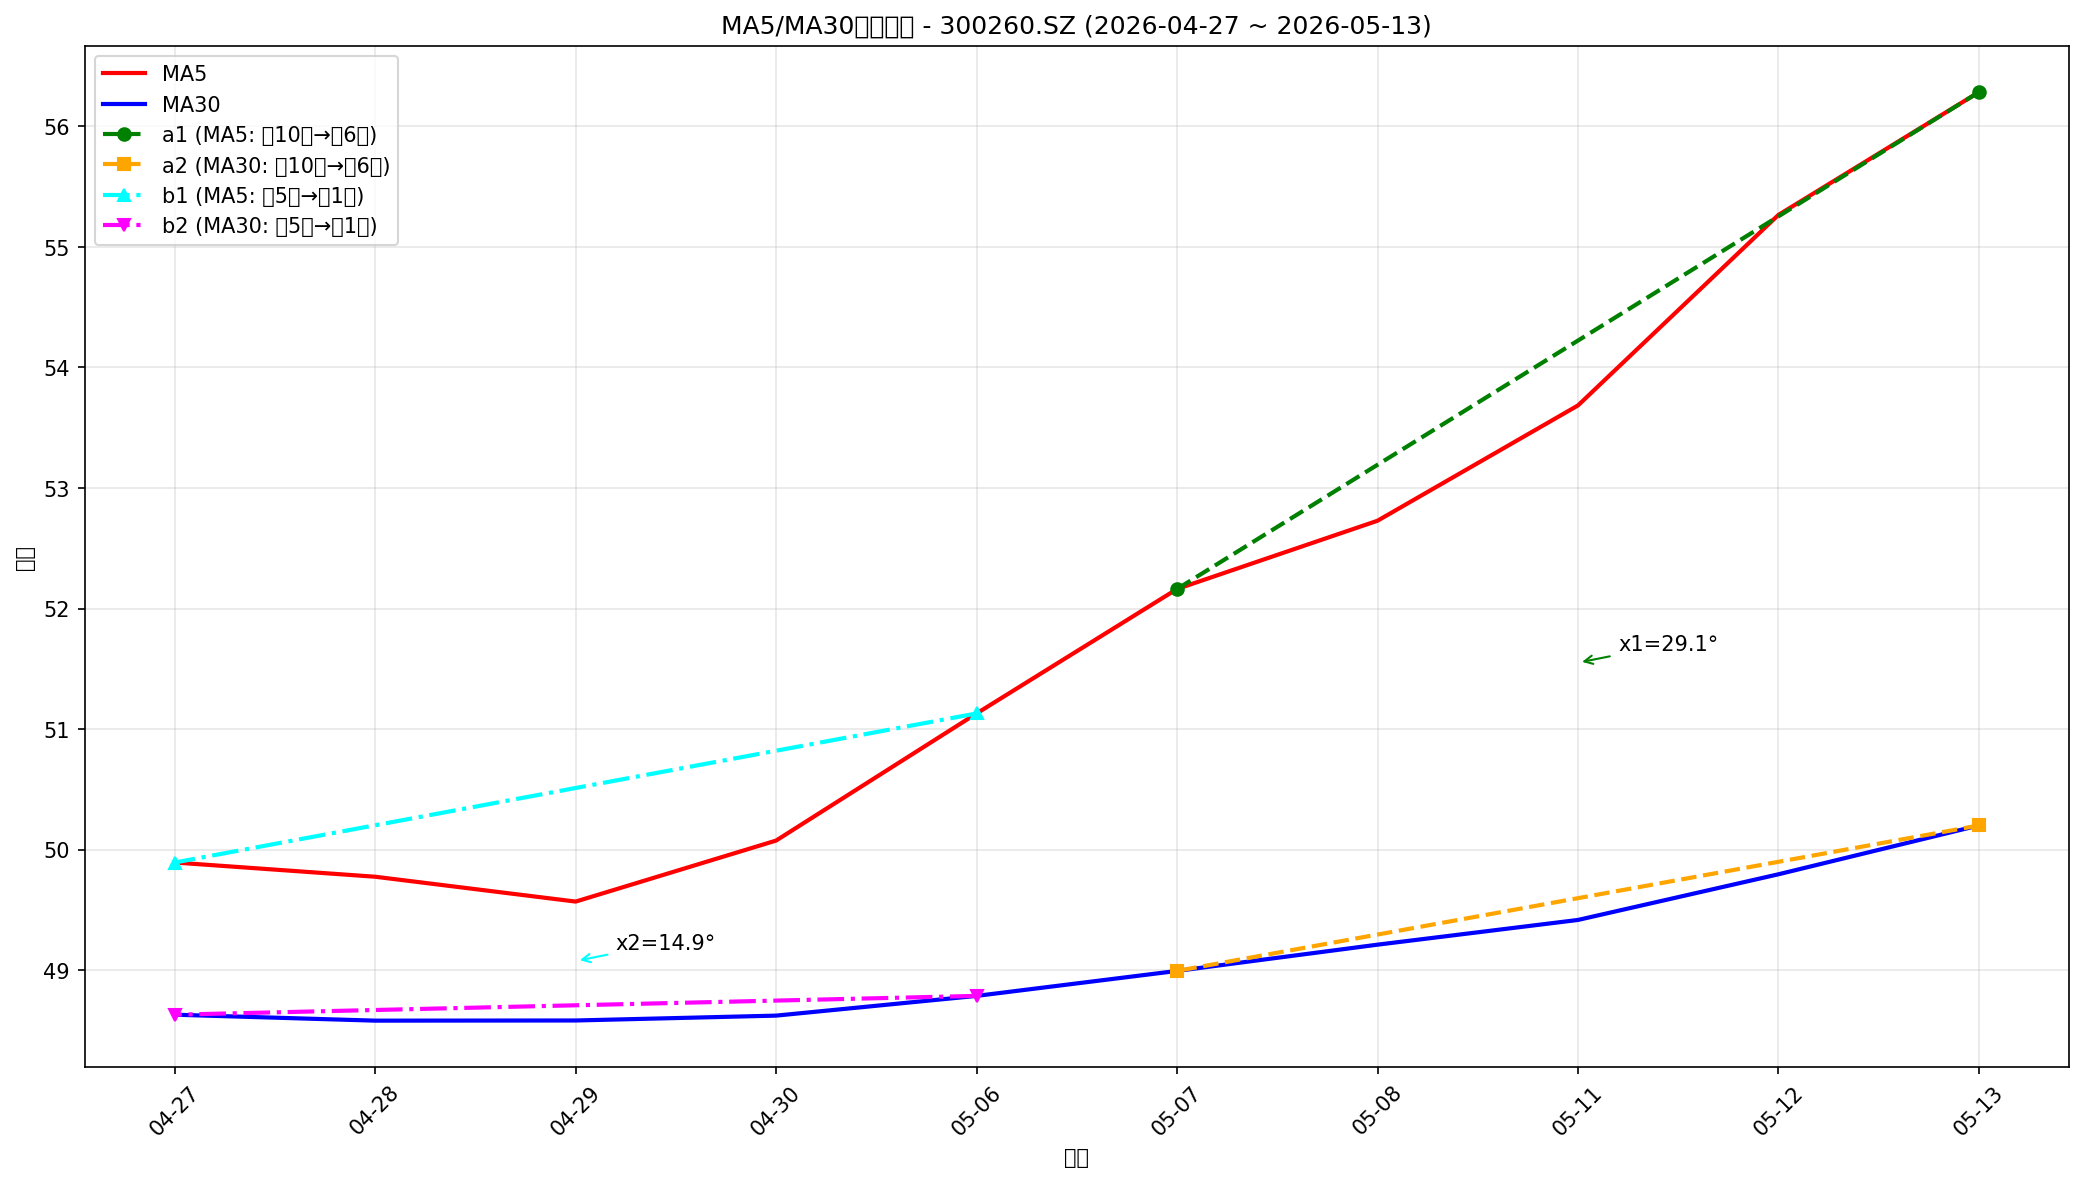
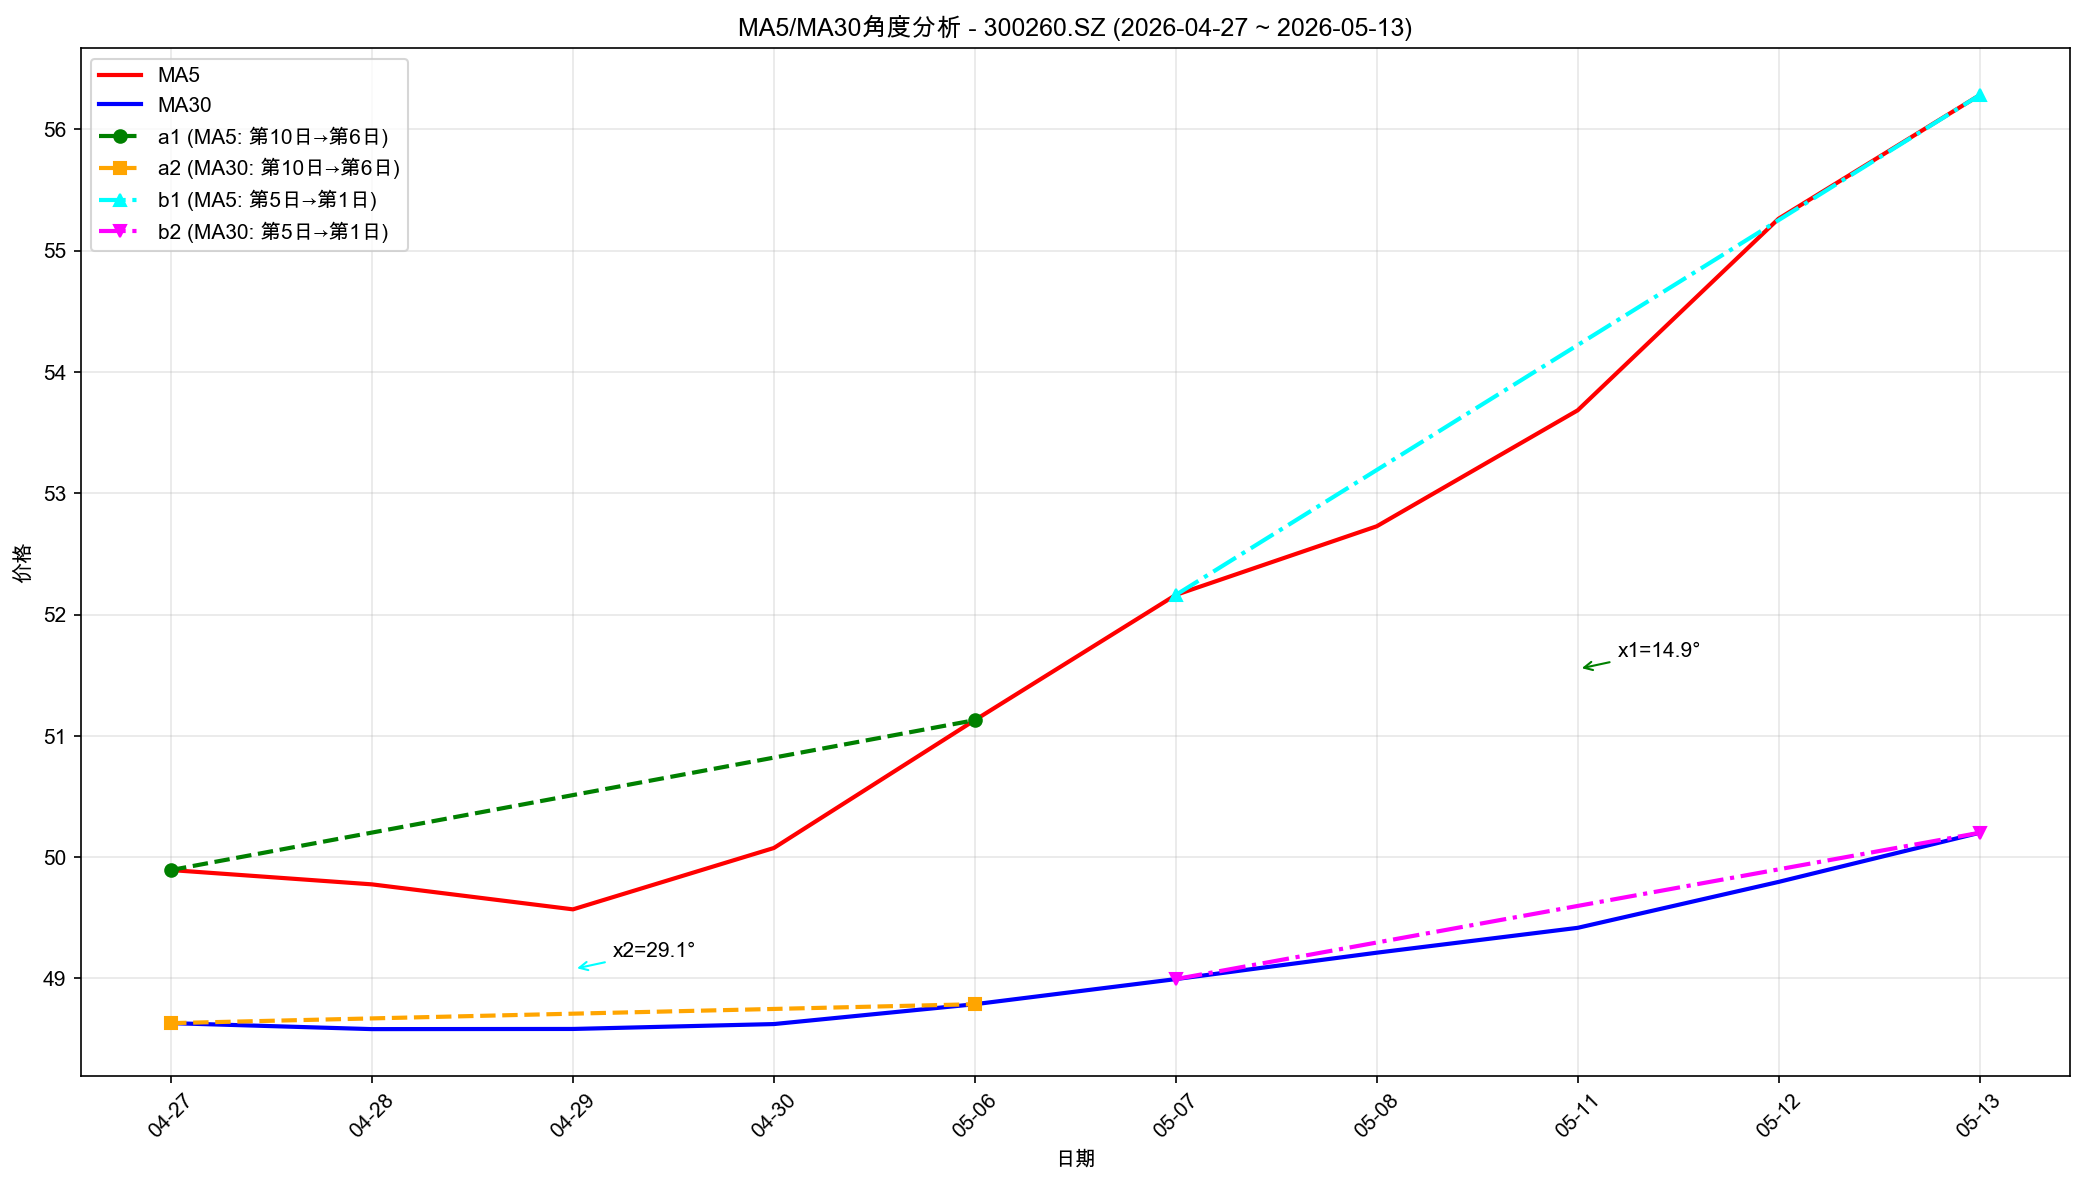
修复select_ma5_ma30_test.py日期索引逻辑

diff --git a/select_ma5_ma30_test.py b/select_ma5_ma30_test.py
@@ -124,15 +124,20 @@ def main():
         date_str = pd.to_datetime(recent_dates[i]).strftime('%Y-%m-%d')
         print(f"  {date_str}: MA5={recent_ma5[i]:.4f}, MA30={recent_ma30[i]:.4f}")
 
-    a1_start = (9, recent_ma5[9])
-    a1_end = (5, recent_ma5[5])
-    a2_start = (9, recent_ma30[9])
-    a2_end = (5, recent_ma30[5])
+    day1_idx = 9
+    day5_idx = 5
+    day6_idx = 4
+    day10_idx = 0
 
-    b1_start = (4, recent_ma5[4])
-    b1_end = (0, recent_ma5[0])
-    b2_start = (4, recent_ma30[4])
-    b2_end = (0, recent_ma30[0])
+    a1_start = (day10_idx, recent_ma5[day10_idx])
+    a1_end = (day6_idx, recent_ma5[day6_idx])
+    a2_start = (day10_idx, recent_ma30[day10_idx])
+    a2_end = (day6_idx, recent_ma30[day6_idx])
+
+    b1_start = (day5_idx, recent_ma5[day5_idx])
+    b1_end = (day1_idx, recent_ma5[day1_idx])
+    b2_start = (day5_idx, recent_ma30[day5_idx])
+    b2_end = (day1_idx, recent_ma30[day1_idx])
 
     x1 = calculate_angle(a1_start, a1_end, a2_start, a2_end)
     x2 = calculate_angle(b1_start, b1_end, b2_start, b2_end)
